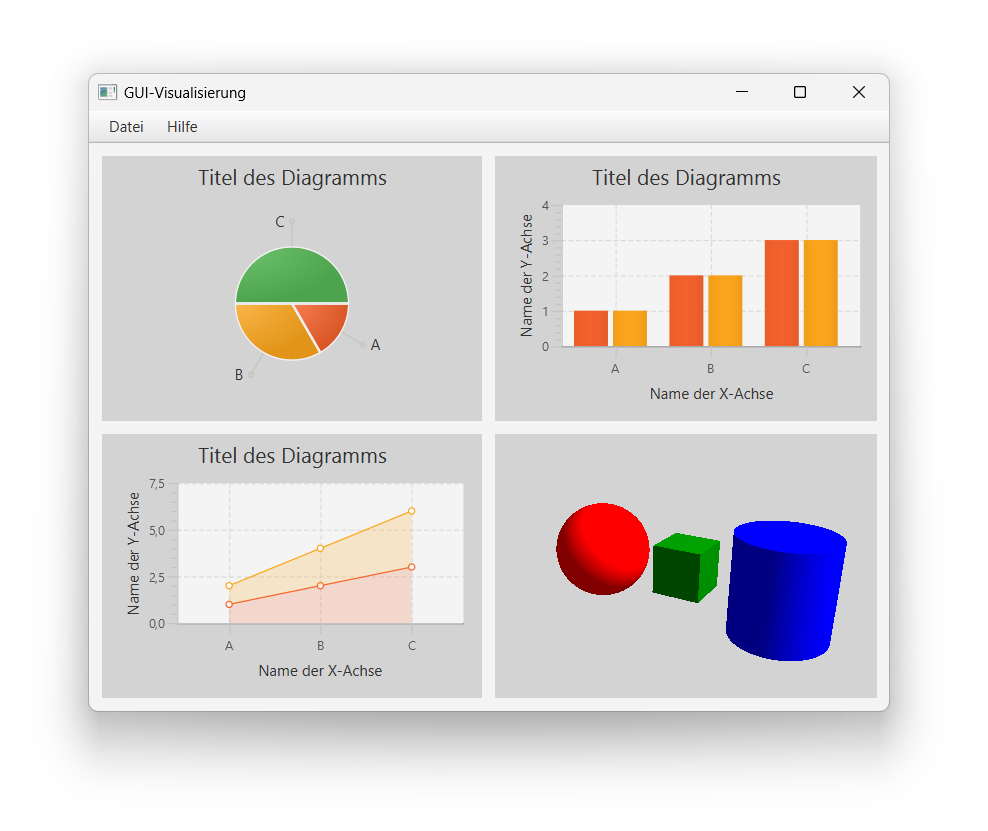
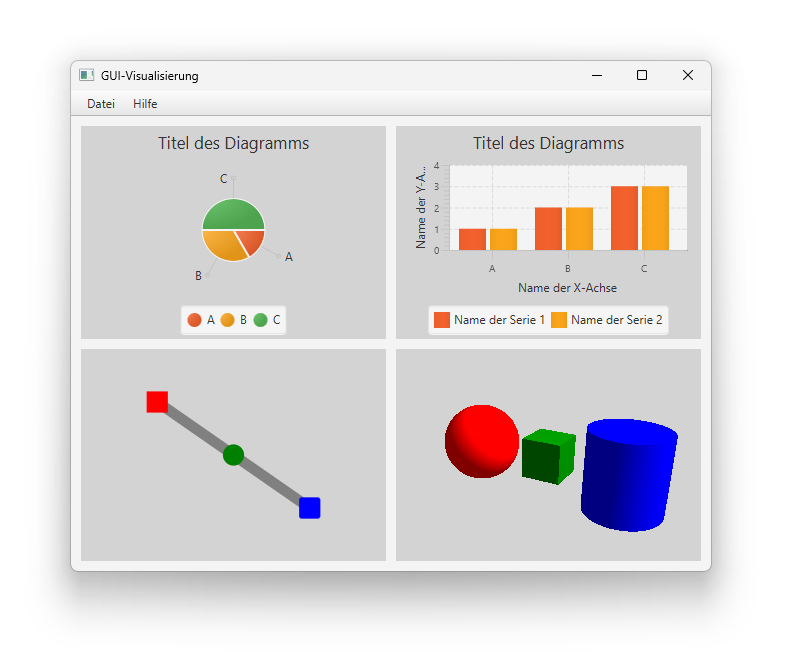
add javafx 2d shape example

diff --git a/Quellen/GUI-Visualisierung/src/main/java/at/fhooe/hackenberg/gui/visualisierung/Example3.java b/Quellen/GUI-Visualisierung/src/main/java/at/fhooe/hackenberg/gui/visualisierung/Example3.java
@@ -1,12 +1,13 @@
 package at.fhooe.hackenberg.gui.visualisierung;
 
+import javafx.beans.binding.Bindings;
+import javafx.beans.binding.NumberBinding;
 import javafx.scene.Node;
-import javafx.scene.chart.Axis;
-import javafx.scene.chart.CategoryAxis;
-import javafx.scene.chart.NumberAxis;
-import javafx.scene.chart.StackedAreaChart;
-import javafx.scene.chart.XYChart;
-import javafx.scene.layout.BorderPane;
+import javafx.scene.layout.Pane;
+import javafx.scene.paint.Color;
+import javafx.scene.shape.Circle;
+import javafx.scene.shape.Line;
+import javafx.scene.shape.Rectangle;
 
 public class Example3 {
 
@@ -15,39 +16,69 @@ public class Example3 {
 	 */
 	public static Node create() {
 		
-		// Erste Datenserie
-		XYChart.Series<String, Number> series1 = new XYChart.Series<String, Number>();
-		series1.setName("Name der Serie 1");
-		series1.getData().add(new XYChart.Data<String, Number>("A", 1));
-		series1.getData().add(new XYChart.Data<String, Number>("B", 2));
-		series1.getData().add(new XYChart.Data<String, Number>("C", 3));
+		// Fläche
+		Pane canvas = new Pane();
+		canvas.setStyle("-fx-background-color: lightgray;");
 		
-		// Zweite Datenserie
-		XYChart.Series<String, Number> series2 = new XYChart.Series<String, Number>();
-		series2.setName("Name der Serie 2");
-		series2.getData().add(new XYChart.Data<String, Number>("A", 1));
-		series2.getData().add(new XYChart.Data<String, Number>("B", 2));
-		series2.getData().add(new XYChart.Data<String, Number>("C", 3));
+		NumberBinding unit = Bindings.min(canvas.widthProperty(), canvas.heightProperty()).divide(10);
 		
-		// X-Achse
-		Axis<String> xAxis = new CategoryAxis();
-		xAxis.setLabel("Name der X-Achse");
+		// Linie
+		Line line = new Line();
 		
-		// Y-Achse
-		Axis<Number> yAxis = new NumberAxis();
-		yAxis.setLabel("Name der Y-Achse");
+		line.setStroke(Color.GRAY);
 		
-		// Diagramm
-		StackedAreaChart<String, Number> chart = new StackedAreaChart<>(xAxis, yAxis);
-		chart.setTitle("Titel des Diagramms");
-		chart.getData().add(series1);
-		chart.getData().add(series2);
+		line.strokeWidthProperty().bind(unit.divide(2));
 		
-		// Hintergrund
-		BorderPane pane = new BorderPane(chart);
-		pane.setStyle("-fx-background-color: lightgray;");
+		line.startXProperty().bind(canvas.widthProperty().divide(4));
+		line.startYProperty().bind(canvas.heightProperty().divide(4));
 		
-		return pane;
+		line.endXProperty().bind(canvas.widthProperty().divide(4).multiply(3));
+		line.endYProperty().bind(canvas.heightProperty().divide(4).multiply(3));
+		
+		canvas.getChildren().add(line);
+		
+		// Kreis
+		Circle circle = new Circle();
+		
+		circle.setFill(Color.GREEN);
+		
+		circle.centerXProperty().bind(canvas.widthProperty().divide(2));
+		circle.centerYProperty().bind(canvas.heightProperty().divide(2));
+		
+		circle.radiusProperty().bind(unit.divide(2));
+		
+		canvas.getChildren().add(circle);
+		
+		// Rechteck
+		Rectangle rectangle = new Rectangle();
+		
+		rectangle.setFill(Color.RED);
+		
+		rectangle.widthProperty().bind(unit);
+		rectangle.heightProperty().bind(unit);
+		
+		rectangle.xProperty().bind(canvas.widthProperty().divide(4).subtract(unit.divide(2)));
+		rectangle.yProperty().bind(canvas.heightProperty().divide(4).subtract(unit.divide(2)));
+		
+		canvas.getChildren().add(rectangle);
+		
+		// Abgerundetes Rechteck
+		Rectangle arc = new Rectangle();
+		
+		arc.setFill(Color.BLUE);
+		
+		arc.widthProperty().bind(unit);
+		arc.heightProperty().bind(unit);
+		
+		arc.arcWidthProperty().bind(unit.divide(4));
+		arc.arcHeightProperty().bind(unit.divide(4));
+		
+		arc.xProperty().bind(canvas.widthProperty().divide(4).multiply(3).subtract(unit.divide(2)));
+		arc.yProperty().bind(canvas.heightProperty().divide(4).multiply(3).subtract(unit.divide(2)));
+		
+		canvas.getChildren().add(arc);
+		
+		return canvas;
 		
 	}
 }

diff --git a/Quellen/GUI-Visualisierung/src/main/java/at/fhooe/hackenberg/gui/visualisierung/Example4.java b/Quellen/GUI-Visualisierung/src/main/java/at/fhooe/hackenberg/gui/visualisierung/Example4.java
@@ -7,7 +7,7 @@ import javafx.scene.Node;
 import javafx.scene.PerspectiveCamera;
 import javafx.scene.PointLight;
 import javafx.scene.SubScene;
-import javafx.scene.layout.BorderPane;
+import javafx.scene.layout.Pane;
 import javafx.scene.paint.Color;
 import javafx.scene.paint.Material;
 import javafx.scene.paint.PhongMaterial;
@@ -82,7 +82,7 @@ public class Example4 {
 		scene.setManaged(false);
 		
 		// Hintergrund
-		BorderPane pane = new BorderPane(scene);
+		Pane pane = new Pane(scene);
 		pane.setStyle("-fx-background-color: lightgray;");
 		
 		scene.widthProperty().bind(pane.widthProperty());
